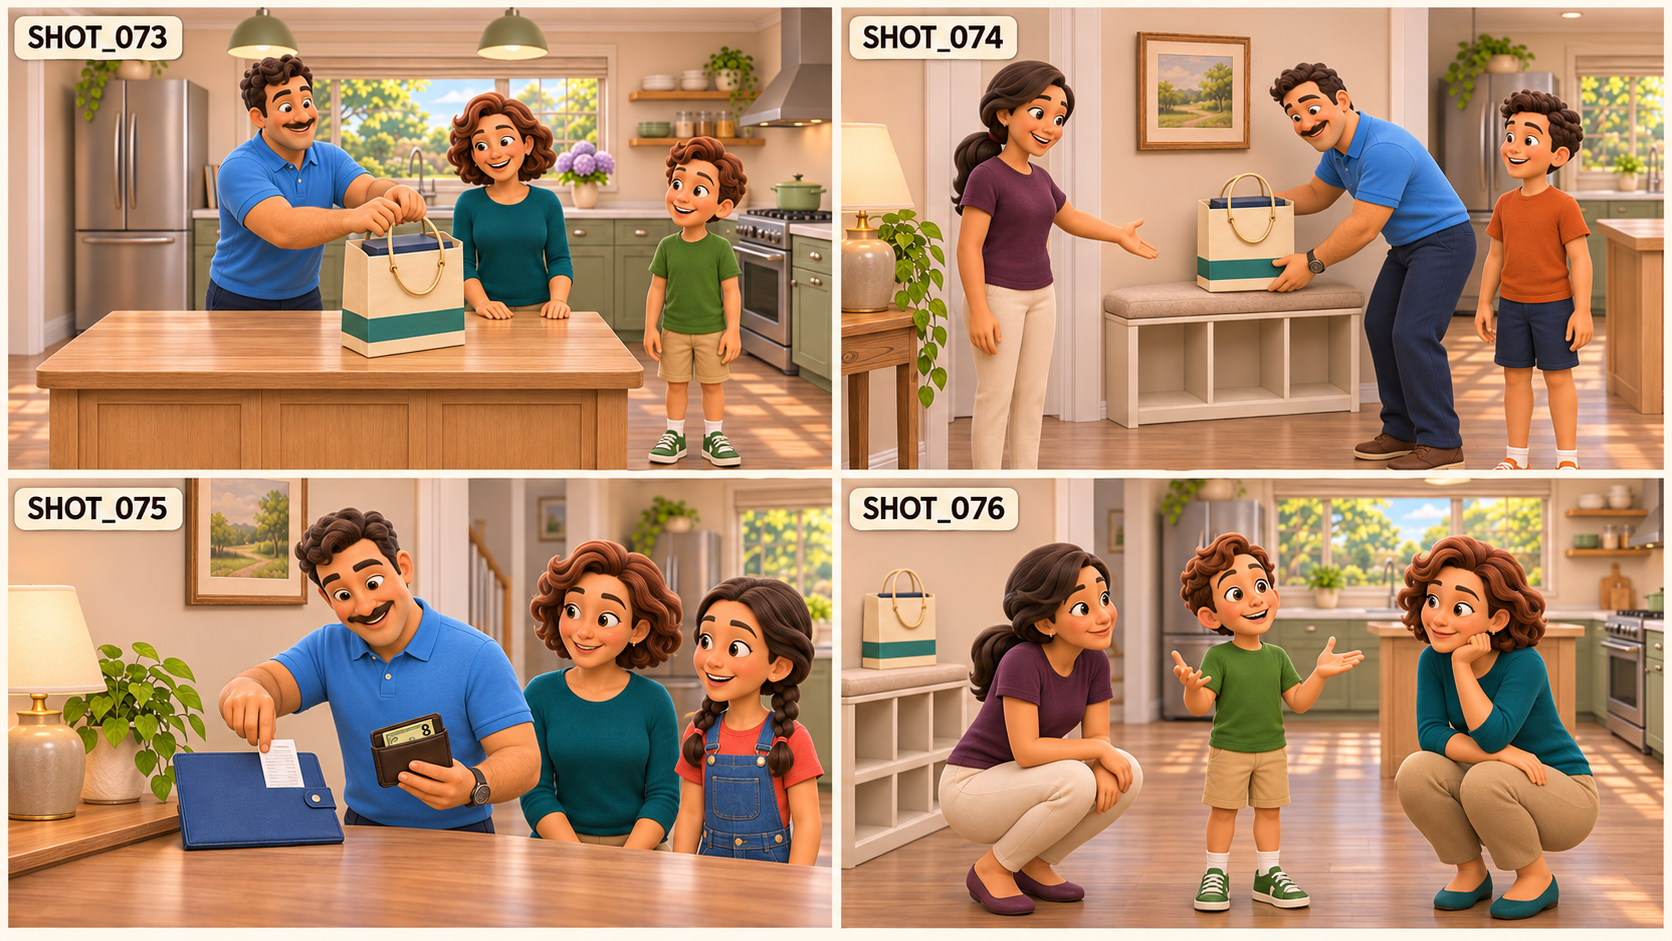
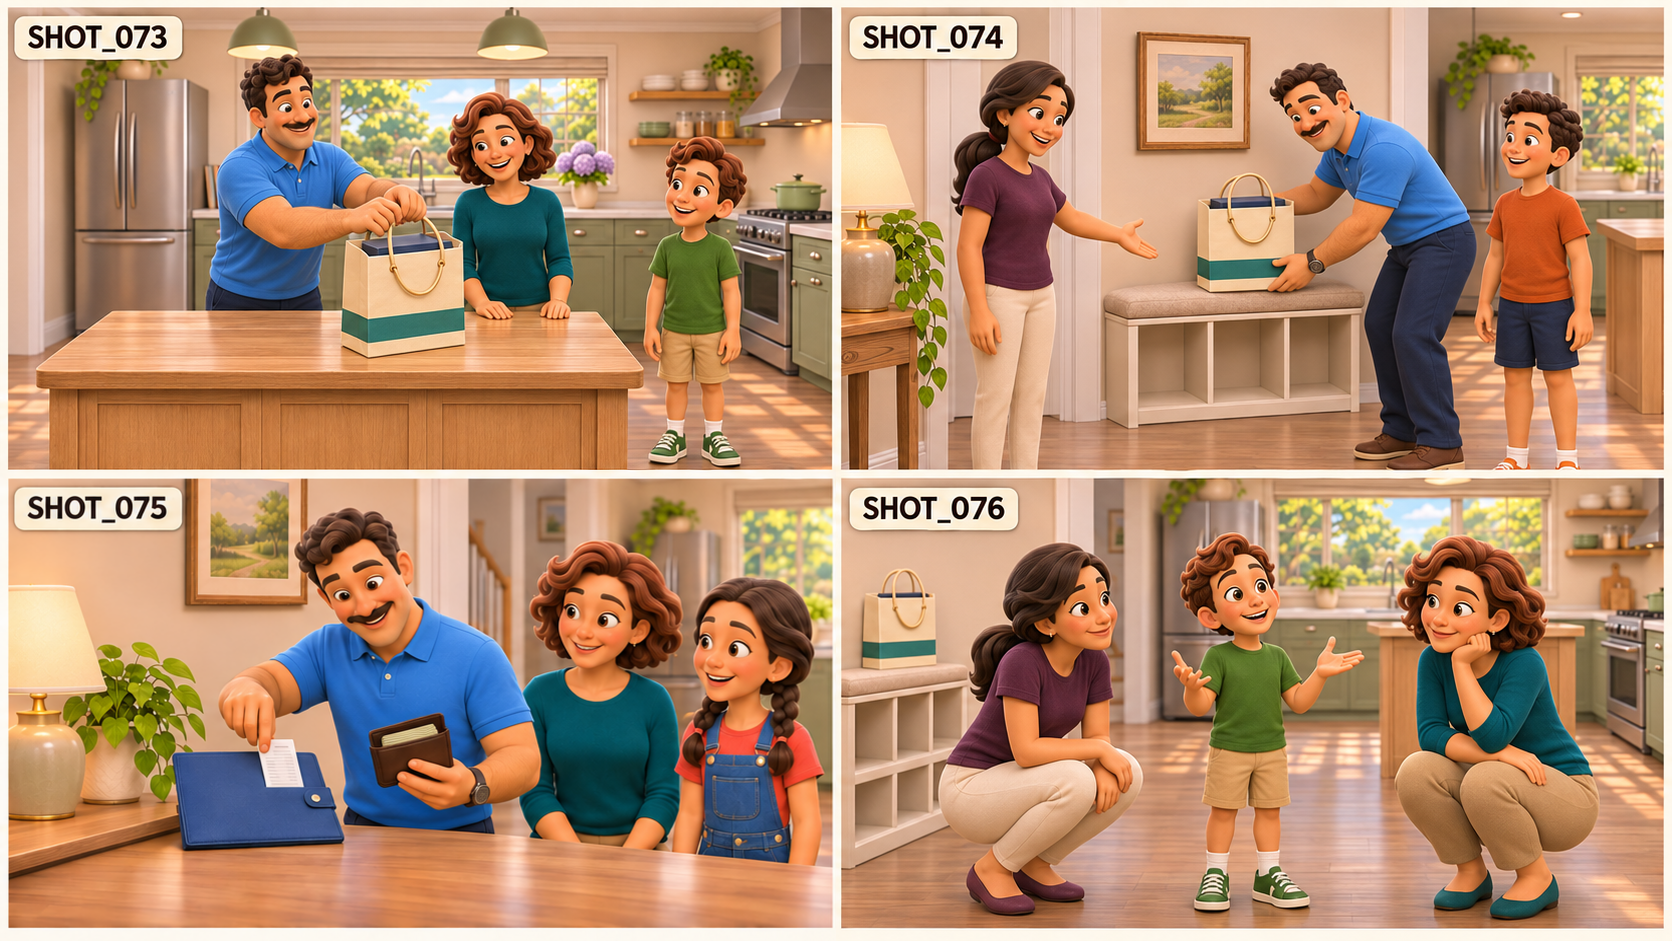
Repair Episode 04 storyboard 19: keep change in wallet

diff --git a/docs/STORYBOARD_REPAIR_LOG.md b/docs/STORYBOARD_REPAIR_LOG.md
@@ -29,7 +29,8 @@ The active request is to fix the selected storyboard PNGs themselves. Video-prom
 | 02 / BOARD_03 | Moved the empty basket to Dan’s left forearm and restored the $8 melon price in both counter shots. The cooler-floor shot retains its previous panel pending a clearer staging. | [Selected sheet](../Episode_02/assets/storyboards/BOARD_03.png) · [Correction record](../artwork_qa/records/ep02-board03-basket-and-melon-price.json) |
 | 09 / BOARD_08 | Restored gardening gloves and the supported basil transfer in 029–031. In 032 the crate still goes under a separate work surface. | [Selected sheet](../Episode_09/assets/storyboards/BOARD_08.png) · [Correction record](../artwork_qa/records/ep09-board08-basil-gloves-and-tray.json) |
 | 03 / BOARD_13 | Removed the spare batter measure from 049. The other three panels retain their published pixels. | [Selected sheet](../Episode_03/assets/storyboards/BOARD_13.png) · [Correction record](../artwork_qa/records/ep03-board13-single-batter-measure.json) |
+| 04 / BOARD_19 | The receipt goes into the blue folder in 075. The folded bill edges stay inside Dan’s wallet and the invented denomination is gone. | [Selected sheet](../Episode_04/assets/storyboards/BOARD_19.png) · [Correction record](../artwork_qa/records/ep04-board19-keep-change-in-wallet.json) |
 
-Current QA inventory: **276 shots with major visual defects; 524 awaiting human review**. Selected repairs remove only the visually verified discrepancies recorded above. Creator acceptance and individual motion-frame approval remain pending. Other storyboard defects have not been declared fixed.
+Current QA inventory: **275 shots with major visual defects; 525 awaiting human review**. Selected repairs remove only the visually verified discrepancies recorded above. Creator acceptance and individual motion-frame approval remain pending. Other storyboard defects have not been declared fixed.
 
 Each selected edit preserves the prior image through its parent Git commit, retains the returned ImageGen source, updates all four panel evidence hashes and records what was visually confirmed. The Episode 01 printed-label audit is refreshed against the new pixels. Corrections are committed and pushed as checkpoints before requesting the next image.

diff --git a/CURRENT_PRODUCTION_STATUS.md b/CURRENT_PRODUCTION_STATUS.md
@@ -4,7 +4,7 @@
 
 The 800 clips have 3,228 dialogue turns across ten 20-minute episodes. Each clip has four or five turns. The provisional speaker windows start at 0.25 seconds and allow the final action or reaction to carry into the cut. Each episode’s screenplay, video prompts and subtitles use the same dialogue. The [episode index](README.md#episodes) links directly to the prompts and each episode’s shot findings.
 
-The [image repair log](docs/STORYBOARD_REPAIR_LOG.md) identifies the selected replacement sheets. Current QA records list 276 major visual discrepancies and 524 shots awaiting human review. [Individual findings](docs/qa/) name the correction and the image hash for each panel. Use the [November 19 audit](docs/AUDIT_EP01_EP10.md) for the earlier review.
+The [image repair log](docs/STORYBOARD_REPAIR_LOG.md) identifies the selected replacement sheets. Current QA records list 275 major visual discrepancies and 525 shots awaiting human review. [Individual findings](docs/qa/) name the correction and the image hash for each panel. Use the [November 19 audit](docs/AUDIT_EP01_EP10.md) for the earlier review.
 
 ## Audit branch validation — 2026-11-19
 
